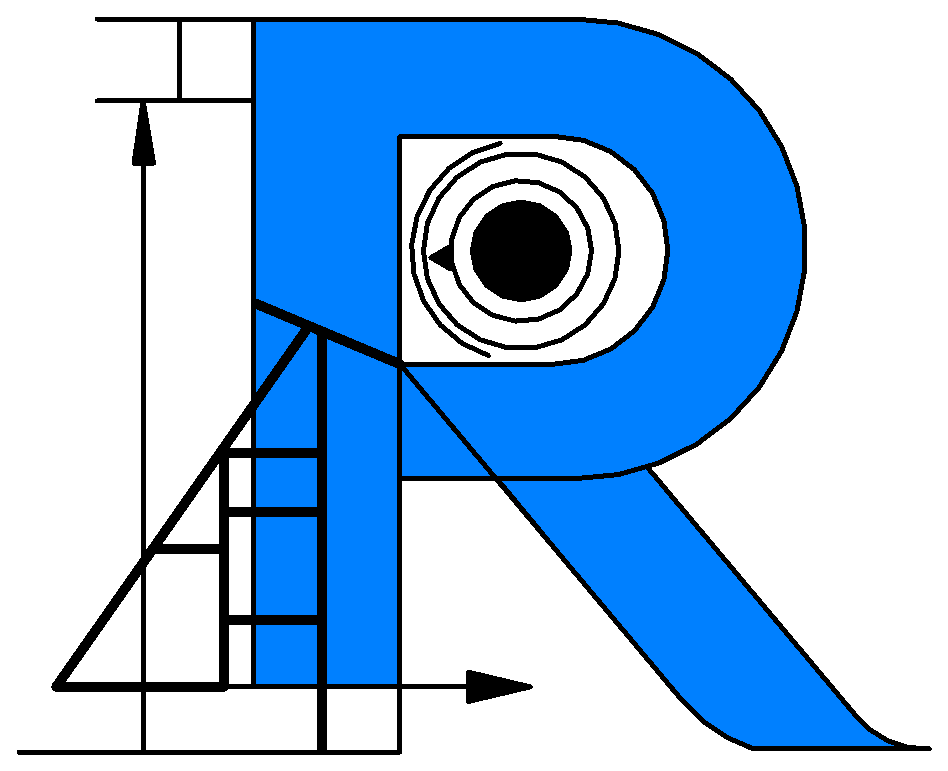
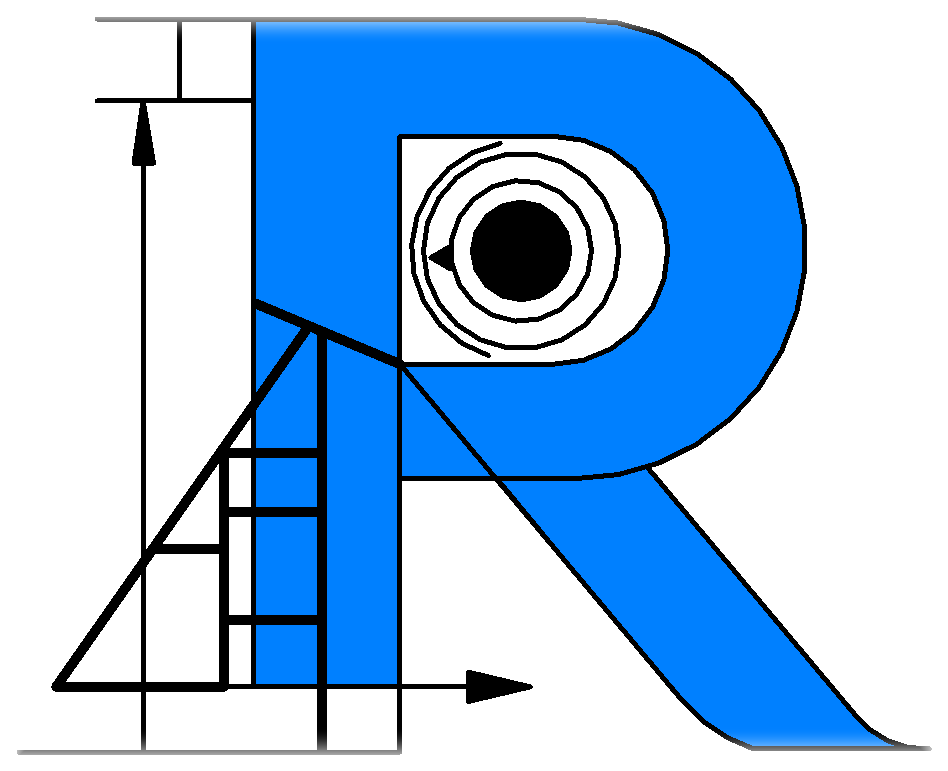
Feather watermark.png image borders with alpha transparency and add radial blur mask to Hero.jsx

Changed region(s): [[0.0918, 0.0, 0.7036, 0.0623], [0.7648, 0.9339, 0.9789, 0.9961], [0.0306, 0.965, 0.4283, 0.9961]]

diff --git a/src/components/Hero.jsx b/src/components/Hero.jsx
@@ -8,8 +8,8 @@ export default function Hero({ lang, t, onExploreClick, onRequestCustomClick }) 
     <section className="relative overflow-hidden pt-12 pb-20 md:pt-20 md:pb-28 border-b border-cyan-500/10">
       
       {/* Background Blueprint Logo Watermark */}
-      <div className={`absolute ${isRtl ? 'left-0' : 'right-0'} top-1/2 -translate-y-1/2 opacity-10 pointer-events-none select-none max-w-xl hidden xl:block z-0`}>
-        <img src="/watermark.png" alt="Revit Blueprint Watermark" className="w-[580px] h-auto filter drop-shadow-[0_0_25px_rgba(0,163,255,0.4)]" />
+      <div className={`absolute ${isRtl ? 'left-0' : 'right-0'} top-1/2 -translate-y-1/2 opacity-20 pointer-events-none select-none max-w-xl hidden xl:block z-0 [mask-image:radial-gradient(ellipse_at_center,black_30%,transparent_85%)]`}>
+        <img src="/watermark.png" alt="Revit Blueprint Watermark" className="w-[580px] h-auto filter drop-shadow-[0_0_30px_rgba(0,163,255,0.5)] blur-[1px]" />
       </div>
 
       {/* Hero Glow Effects */}
